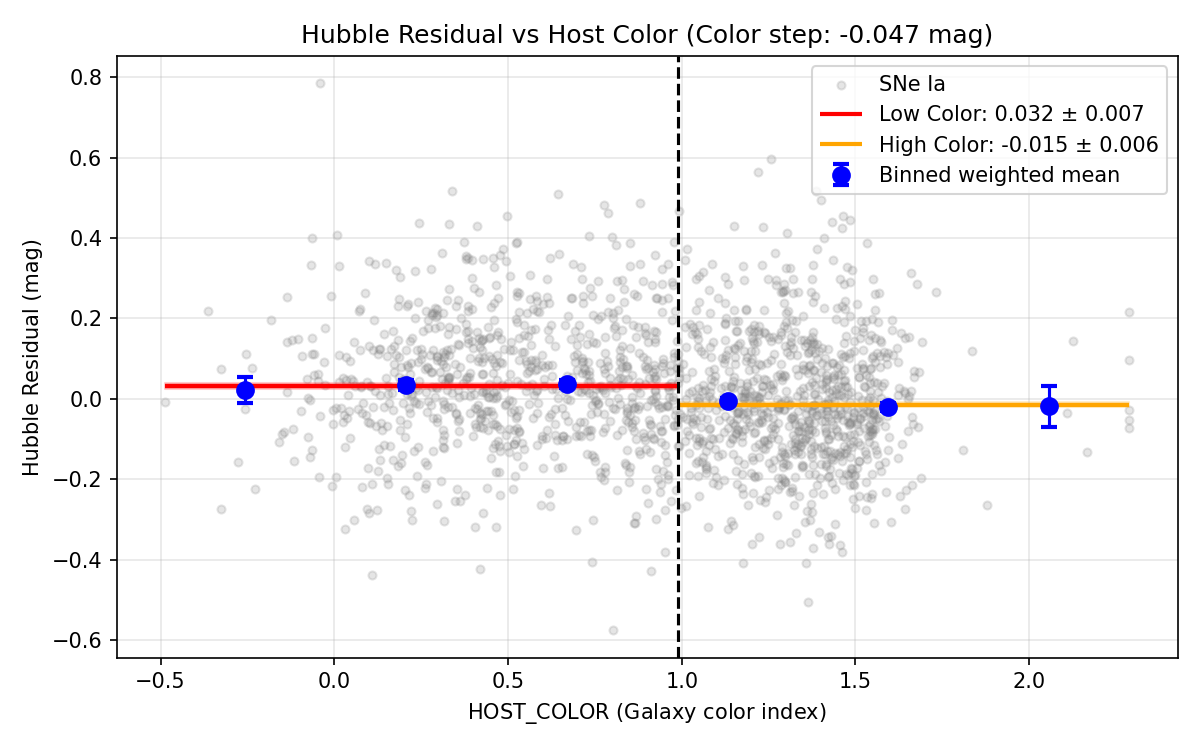
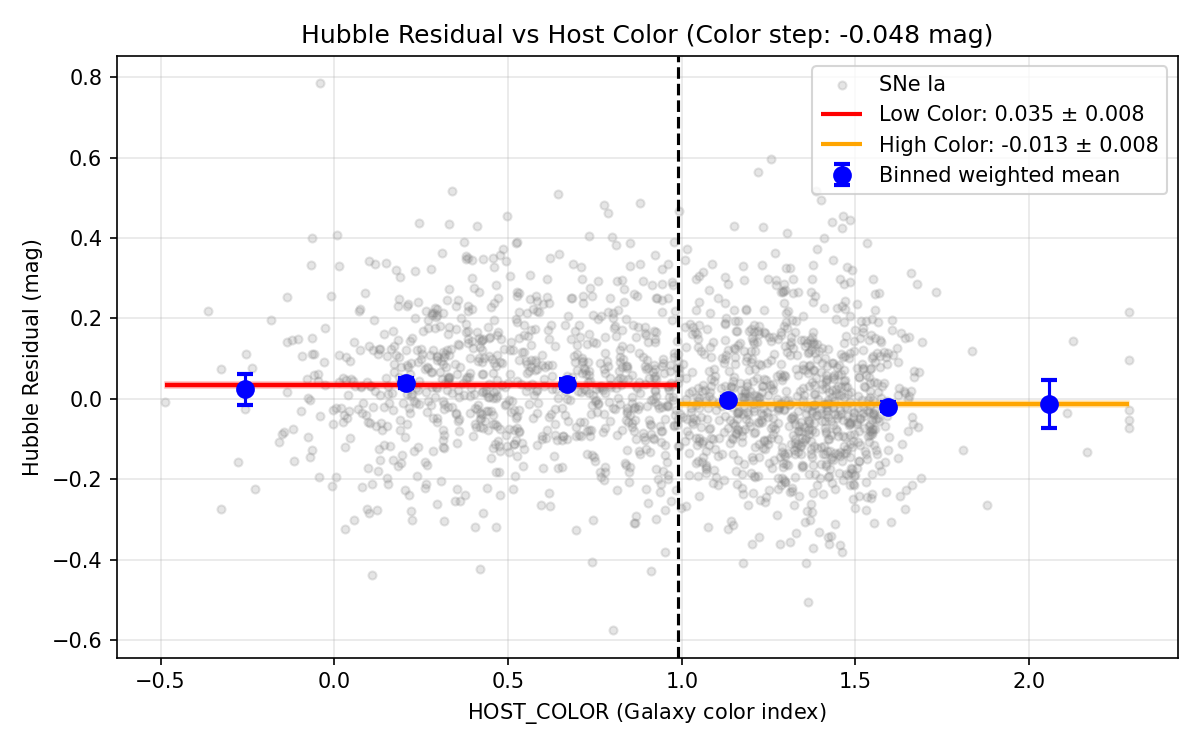
Adding Bias Error (initial)

diff --git a/DES Analysis/analysis_tools.py b/DES Analysis/analysis_tools.py
@@ -23,12 +23,12 @@ def calculate_physics(df, alpha=ALPHA, beta=BETA, m0=M0_AVG, omega_m=OMEGA_M):
     df['hubble_residual'] = df['mu_no_mass'] - df['mu_expected']
     return df
 
-def get_weighted_stats(residuals, observational_errors, sigma_int=0.11):
+def get_weighted_stats(residuals, observational_errors, bias_errors, sigma_int=0.11):
     """
     Calculates weighted mean using both observational error and intrinsic scatter.
     """
     # Total variance is the sum of squares of errors
-    total_error = np.sqrt(observational_errors**2 + sigma_int**2)
+    total_error = np.sqrt(observational_errors**2 + sigma_int**2 + bias_errors*2)
     weights = 1 / (total_error**2)
     
     weighted_mean = np.average(residuals, weights=weights)
@@ -43,7 +43,7 @@ def run_stats(low_res, high_res):
     ks_stat, ks_p = ks_2samp(low_res, high_res)
     return {"t_stat": t_stat, "t_p": t_p, "ks_stat": ks_stat, "ks_p": ks_p}
 
-def binned_weighted_mean(x, y, observational_errors, bins=6, sigma_int=0.11):
+def binned_weighted_mean(x, y, observational_errors, bias_errors,  bins=6, sigma_int=0.11):
     """Returns bin centers, weighted means, and uncertainties per bin."""
     edges = np.linspace(x.min(), x.max(), bins + 1)
     centers = (edges[:-1] + edges[1:]) / 2
@@ -54,7 +54,7 @@ def binned_weighted_mean(x, y, observational_errors, bins=6, sigma_int=0.11):
         if i == bins - 1:
             mask = (x >= edges[i]) & (x <= edges[i + 1])
         if np.sum(mask) > 0:
-            means[i], errs[i] = get_weighted_stats(y[mask], observational_errors[mask], sigma_int=sigma_int)
+            means[i], errs[i] = get_weighted_stats(y[mask], observational_errors[mask], bias_errors[mask], sigma_int=sigma_int)
     return centers, means, errs
 
 def get_weighted_stats_with_prob(residuals, observational_errors, probabilities, sigma_int=0.11):
@@ -63,15 +63,15 @@ def get_weighted_stats_with_prob(residuals, observational_errors, probabilities,
     1. Inverse Variance (1 / sigma^2)
     2. Classification Probability (PROBIA_BEAMS)
     """
-    # 1. Calculate the standard statistical weight (Inverse Variance)
+    # Calculate the standard statistical weight (Inverse Variance)
     total_variance = observational_errors**2 + sigma_int**2
     variance_weight = 1 / total_variance
     
-    # 2. Combine with the Probability Weight
-    # This gives more 'votes' to SNe with high PROBIA_BEAMS
+    # Combine with the Probability Weight
+    # This gives more priority to SNe with high PROBIA_BEAMS
     combined_weights = variance_weight * probabilities
     
-    # Weighted Average: Sum(Value * Weight) / Sum(Weight)
+    # Weighted Average: 
     weighted_mean = np.sum(residuals * combined_weights) / np.sum(combined_weights)
     
     # Uncertainty of the weighted mean
@@ -80,7 +80,7 @@ def get_weighted_stats_with_prob(residuals, observational_errors, probabilities,
     return weighted_mean, uncertainty
 
 def binned_weighted_mean_with_prob(x, y, errors, probs, bins=6, sigma_int=0.11):
-    """Binned version using the probability-weighted logic."""
+    """Binned version using probability-weight"""
     edges = np.linspace(x.min(), x.max(), bins + 1)
     centers = (edges[:-1] + edges[1:]) / 2
     means = np.full(bins, np.nan)

diff --git a/DES Analysis/DES_mass_step.py b/DES Analysis/DES_mass_step.py
@@ -7,7 +7,7 @@ from analysis_tools import calculate_physics, get_weighted_stats, run_stats, bin
 # LOAD DATA
 hd_path = download_file("4_DISTANCES_COVMAT/DES-Dovekie_HD.csv")
 meta_path = download_file("4_DISTANCES_COVMAT/DES-Dovekie_Metadata.csv")
-df = load_snana_format(hd_path).merge(load_snana_format(meta_path)[['CID', 'HOST_LOGMASS', 'mB', 'x1', 'c', 'x0', 'biasCor_mu']], on='CID')
+df = load_snana_format(hd_path).merge(load_snana_format(meta_path)[['CID', 'HOST_LOGMASS', 'mB', 'x1', 'c', 'x0', 'biasCor_mu', 'biasCorErr_mu']], on='CID')
 df = df[df['PROBIA_BEAMS'] > 0.95].dropna(subset=['zHD', 'mB', 'x1', 'c', 'x0', 'HOST_LOGMASS', 'MUERR'])
 
 # PHYSICS
@@ -17,16 +17,13 @@ df = calculate_physics(df)
 low_df = df[df['HOST_LOGMASS'] < 10]
 high_df = df[df['HOST_LOGMASS'] >= 10]
 
-w_mean_low, w_err_low = get_weighted_stats(low_df['hubble_residual'], low_df['MUERR'])
-w_mean_high, w_err_high = get_weighted_stats(high_df['hubble_residual'], high_df['MUERR'])
+w_mean_low, w_err_low = get_weighted_stats(low_df['hubble_residual'], low_df['MUERR'], low_df['biasCorErr_mu'])
+w_mean_high, w_err_high = get_weighted_stats(high_df['hubble_residual'], high_df['MUERR'], high_df['biasCorErr_mu'])
 mass_step = w_mean_high - w_mean_low
 stats = run_stats(low_df['hubble_residual'], high_df['hubble_residual'])
 
 # BINNED WEIGHTED MEAN (no per-point error bars)
-bin_centers, bin_means, bin_errs = binned_weighted_mean(
-df['HOST_LOGMASS'].values, df['hubble_residual'].values, df['MUERR'].values, bins=6
-
-)
+bin_centers, bin_means, bin_errs = binned_weighted_mean(df['HOST_LOGMASS'].values, df['hubble_residual'].values, df['MUERR'].values, df['biasCorErr_mu'].values,  bins=6)
 valid = ~np.isnan(bin_means)
 
 # PRINT SUMMARY

diff --git a/DES Analysis/DES_mass_step_weighted_prob.py b/DES Analysis/DES_mass_step_weighted_prob.py
@@ -7,7 +7,7 @@ from analysis_tools import calculate_physics, get_weighted_stats, run_stats, bin
 # LOAD DATA
 hd_path = download_file("4_DISTANCES_COVMAT/DES-Dovekie_HD.csv")
 meta_path = download_file("4_DISTANCES_COVMAT/DES-Dovekie_Metadata.csv")
-df = load_snana_format(hd_path).merge(load_snana_format(meta_path)[['CID', 'HOST_LOGMASS', 'mB', 'x1', 'c', 'x0', 'biasCor_mu']], on='CID')
+df = load_snana_format(hd_path).merge(load_snana_format(meta_path)[['CID', 'HOST_LOGMASS', 'mB', 'x1', 'c', 'x0', 'biasCor_mu', 'biasCorErr_mu']], on='CID')
 df = df[df['PROBIA_BEAMS'] > 0.0].dropna(subset=['zHD', 'mB', 'x1', 'c', 'x0', 'HOST_LOGMASS', 'MUERR'])
 
 # PHYSICS
@@ -17,8 +17,8 @@ df = calculate_physics(df)
 low_df = df[df['HOST_LOGMASS'] < 10]
 high_df = df[df['HOST_LOGMASS'] >= 10]
 
-w_mean_low, w_err_low = get_weighted_stats_with_prob(low_df['hubble_residual'], low_df['MUERR'], low_df['PROBIA_BEAMS'])
-w_mean_high, w_err_high = get_weighted_stats_with_prob(high_df['hubble_residual'], high_df['MUERR'], high_df['PROBIA_BEAMS'])
+w_mean_low, w_err_low = get_weighted_stats_with_prob(low_df['hubble_residual'], low_df['MUERR'], low_df['PROBIA_BEAMS'], low_df['biasCorErr_mu'])
+w_mean_high, w_err_high = get_weighted_stats_with_prob(high_df['hubble_residual'], high_df['MUERR'], high_df['PROBIA_BEAMS'], high_df['biasCorErr_mu'])
 mass_step = w_mean_high - w_mean_low
 stats = run_stats(low_df['hubble_residual'], high_df['hubble_residual'])
 
@@ -28,6 +28,7 @@ bin_centers, bin_means, bin_errs = binned_weighted_mean_with_prob(
     df['hubble_residual'].values, 
     df['MUERR'].values, 
     df['PROBIA_BEAMS'].values, 
+    df['biasCorErr_mu'].values,
     bins=6
 )
 valid = ~np.isnan(bin_means)
